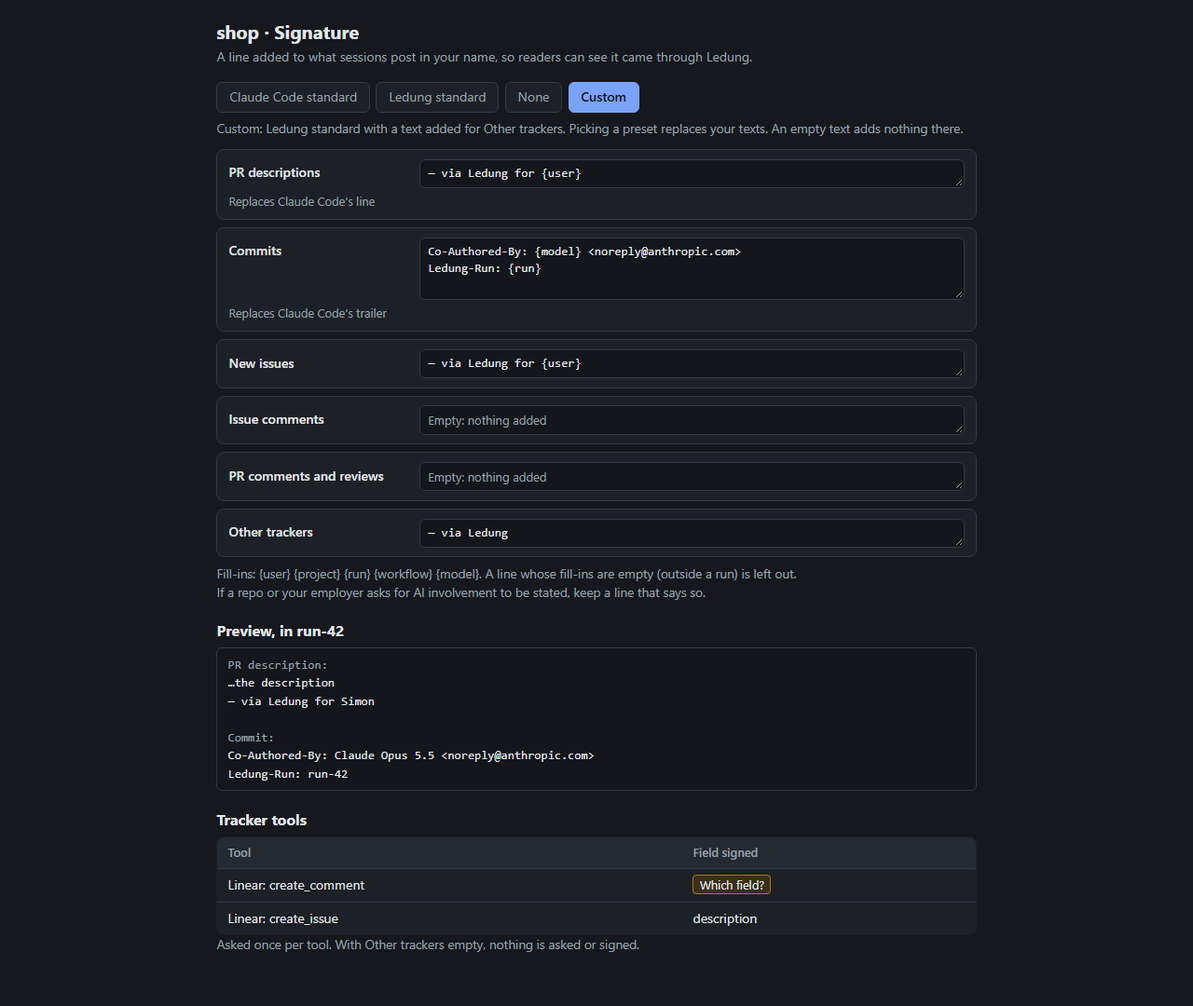
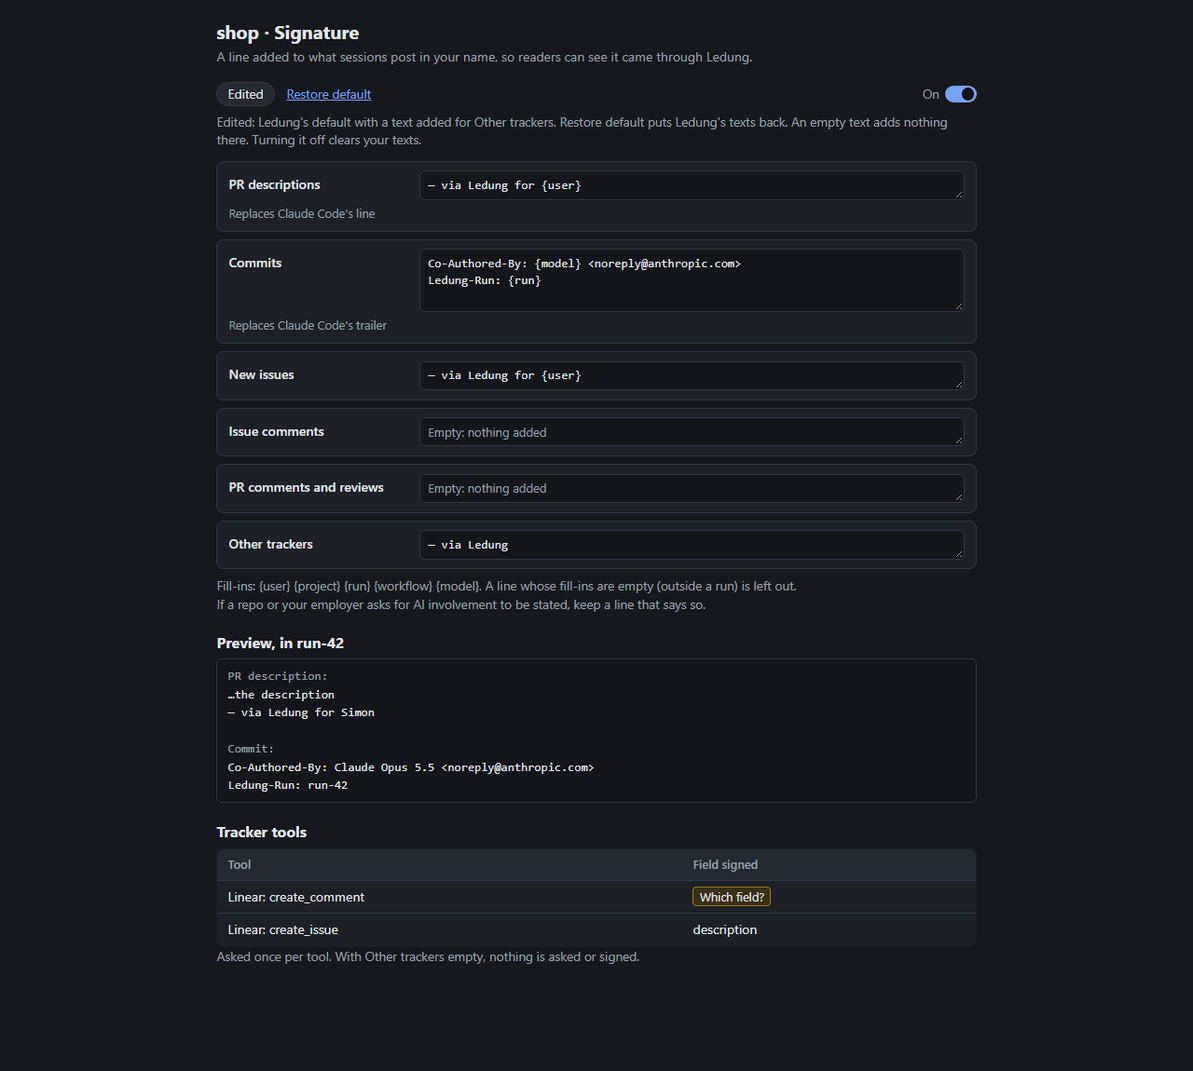
Design #513: one preset (Ledung's default), editable, Restore default, a small Off that empties the boxes
Simon, 2026-11-27: "Let's just have the Ledung preset, and it's editable
to turn into custom. With some way to restore it to the default. With a
small off somehow that disables the signature and erases the text in the
box." Claude Code standard, None and Custom presets are gone; open
choices 6 (how an existing project shows) and 7 (switching Off back on)
added. Settings mock-up with the Off switch; screenshots at 1280 and
390 px, plus the Off view at 390 px.

Changelog: none

diff --git a/docs/steps/project-signature/settings-mock.html b/docs/steps/project-signature/settings-mock.html
@@ -27,6 +27,18 @@ th, td { text-align:left; padding:.45rem .7rem; border-bottom:1px solid var(--bo
 th { color:var(--muted); font-weight:600; font-size:.8rem; background:var(--panel-2); }
 tr:last-child td { border-bottom:0; }
 .wait { background:var(--warn-bg); border:1px solid var(--warn-border); border-radius:4px; padding:.05rem .4rem; font-size:.8rem; }
+.top { display:flex; align-items:center; gap:.8rem; flex-wrap:wrap; margin-bottom:.4rem; }
+.state { border:1px solid var(--border); background:var(--panel-2); border-radius:999px; padding:.15rem .7rem; font-size:.85rem; }
+.restore { color:var(--accent); font-size:.85rem; }
+.switch { margin-left:auto; display:flex; align-items:center; gap:.4rem; color:var(--muted); font-size:.85rem; }
+.track { width:2.1rem; height:1.15rem; border-radius:999px; background:var(--accent); position:relative; display:inline-block; }
+.track::after { content:""; position:absolute; top:.15rem; left:1.1rem; width:.85rem; height:.85rem; border-radius:50%; background:var(--accent-text); }
+body.off .track { background:var(--border); }
+body.off .track::after { left:.15rem; background:var(--muted); }
+.offnote { display:none; }
+body.off .offnote { display:block; }
+body.off .state, body.off .restore, body.off .onlyon { display:none; }
+body.off .place { opacity:.5; }
 @media (max-width: 640px) {
   .wrap { padding:.8rem; }
   .place { grid-template-columns:1fr; }
@@ -38,8 +50,9 @@ tr:last-child td { border-bottom:0; }
 <h1>shop · Signature</h1>
 <p class="sub">A line added to what sessions post in your name, so readers can see it came through Ledung.</p>
 
-<div class="presets"><span class="preset">Claude Code standard</span><span class="preset">Ledung standard</span><span class="preset">None</span><span class="preset on">Custom</span></div>
-<p class="hint">Custom: Ledung standard with a text added for Other trackers. Picking a preset replaces your texts. An empty text adds nothing there.</p>
+<div class="top"><span class="state">Edited</span><a class="restore" href="#">Restore default</a><span class="switch"><span class="onoff">On</span><span class="track"></span></span></div>
+<p class="hint onlyon">Edited: Ledung's default with a text added for Other trackers. Restore default puts Ledung's texts back. An empty text adds nothing there. Turning it off clears your texts.</p>
+<p class="hint offnote">Off: no signature anywhere, Claude Code's lines included. Turning it on fills in Ledung's default.</p>
 
 <div class="place"><label>PR descriptions</label><textarea rows="1">— via Ledung for {user}</textarea><span class="why">Replaces Claude Code's line</span></div>
 <div class="place"><label>Commits</label><textarea rows="3">Co-Authored-By: {model} &lt;noreply@anthropic.com&gt;
@@ -50,7 +63,7 @@ Ledung-Run: {run}</textarea><span class="why">Replaces Claude Code's trailer</sp
 <div class="place"><label>Other trackers</label><textarea rows="1">— via Ledung</textarea></div>
 <p class="hint">Fill-ins: {user} {project} {run} {workflow} {model}. A line whose fill-ins are empty (outside a run) is left out.<br>If a repo or your employer asks for AI involvement to be stated, keep a line that says so.</p>
 
-<h2>Preview, in run-42</h2>
+<div class="onlyon"><h2>Preview, in run-42</h2>
 <div class="preview">PR description:
 <b>…the description
 — via Ledung for Simon</b>
@@ -65,4 +78,13 @@ Ledung-Run: run-42</b></div>
 <tr><td>Linear: create_issue</td><td>description</td></tr>
 </tbody></table>
 <p class="hint">Asked once per tool. With Other trackers empty, nothing is asked or signed.</p>
-</div></body></html>
+</div>
+</div>
+<script>
+// ?off shows the section switched off: every box emptied, as Simon asked.
+if (location.search.includes("off")) {
+  document.body.classList.add("off");
+  document.querySelector(".onoff").textContent = "Off";
+  for (const t of document.querySelectorAll("textarea")) { t.value = ""; t.placeholder = ""; t.disabled = true; }
+}
+</script></body></html>

diff --git a/docs/steps/project-signature.md b/docs/steps/project-signature.md
@@ -1,8 +1,8 @@
 # A project signature — proposal
 
-Nov 26, 2026, revised Nov 27 (Ledung's line replaces Claude Code's; then Simon's changes: presets, a text per place, off is off, no PR summary) · Proposal for issue #513 (run-179). Not approved yet; nothing is built.
+Nov 26, 2026, revised Nov 27 (Ledung's line replaces Claude Code's; then Simon's changes: a text per place, off is off, no PR summary; then one preset, Ledung's, editable, with Restore default and a small Off) · Proposal for issue #513 (run-179). Not approved yet; nothing is built.
 
-**Done when:** the "Done looks like" points of #513 hold, minus the living PR summary: a signature per project, set by a preset or by hand, with a text per place; `gh` issue create, issue and PR comments and reviews get it from every body source on Windows and Mac, and PR descriptions and commits through Claude Code's own settings; every other `gh` call is unchanged; another server's write tool gets it after one question per tool and project; an Outbox lists what went out; and never a second signature, one on a read-only call, a private detail in one, or a broken `gh`.
+**Done when:** the "Done looks like" points of #513 hold, minus the living PR summary: a signature per project, Ledung's default or edited by hand, with a text per place and an Off; `gh` issue create, issue and PR comments and reviews get it from every body source on Windows and Mac, and PR descriptions and commits through Claude Code's own settings; every other `gh` call is unchanged; another server's write tool gets it after one question per tool and project; an Outbox lists what went out; and never a second signature, one on a read-only call, a private detail in one, or a broken `gh`.
 
 ## Why
 
@@ -15,10 +15,10 @@ The signature is a **courtesy line, not proof**. A session can always reach the 
 In conversation with the manager, relayed with his words; they go into `docs/decisions.md` when the design is approved.
 
 - **Ledung handles the signatures:** "I still want Ledung to handle the signatures though."
-- **Presets, and a text per place:** Claude Code standard · Ledung standard · None; editing any text makes it Custom. An empty text means nothing in that place.
+- **One preset, Ledung's, and a text per place:** "for the presets. Let's just have the Ledung preset, and it's editable to turn into custom. With some way to restore it to the default. With a small off somehow that disables the signature and erases the text in the box." (Later on Nov 27; this replaces the earlier Claude Code standard · Ledung standard · None · Custom.) An empty text means nothing in that place.
 - **Ledung's texts replace Claude Code's lines completely, and nothing is hardcoded:** "we're replacing it with a per project signature that the user can change." Both Claude Code lines come from the project's texts. "The co-authored by claude should work the same way, unless that steps on any of Anthropic's licence thingies. If the user wants to have it there, they can have it in the signature; otherwise they can change it." (Earlier, question #2434: "We should override Claude Code's signature.") What Anthropic's terms say is under "Anthropic's terms" below.
-- **Off is off:** "If switched off, it should be off." None means no line anywhere, Claude's included.
-- **Defaults:** "existing projects should remain as is, new projects use a Ledung standard." This replaces the earlier defaults by repo visibility.
+- **Off is off:** "If switched off, it should be off." Off means no line anywhere, Claude's included.
+- **Defaults:** "existing projects should remain as is, new projects use a Ledung standard." This replaces the earlier defaults by repo visibility. How an existing project looks with only one preset is open choice 6.
 - **No living PR summary:** "I don't think it's up to Ledung, but each project's workflow. If I want to comment every time we start a new phase of an issue, then I can have that in the workflow." A PR made in a run gets the PR-description text like any other PR.
 
 ## Anthropic's terms (checked 2026-11-27)
@@ -45,29 +45,34 @@ So removing or replacing the lines is a supported choice. The one thing left to 
 
 ### The signature, per project
 
-In the project's settings, a **Signature** section: a preset, and a text per place.
+In the project's settings, a **Signature** section: a text per place, filled from Ledung's default, a **Restore default** link, and a small **Off** switch.
 
 **The places:** PR descriptions · commits · new issues · issue comments · PR comments and reviews · other trackers. Each has its own text; an empty text means nothing is added there.
 
-**The presets:**
+**Ledung's default** (what it says is open choice 4):
 
-| Place | Claude Code standard | Ledung standard (open choice 4) | None |
-|---|---|---|---|
-| PR descriptions | `🤖 Generated with [Claude Code](https://claude.com/claude-code)` | `— via Ledung for {user}` | — |
-| Commits | `Co-Authored-By: {model} <noreply@anthropic.com>` | `Co-Authored-By: {model} <noreply@anthropic.com>` and `Ledung-Run: {run}` | — |
-| New issues | — | `— via Ledung for {user}` | — |
-| Issue comments | — | — | — |
-| PR comments and reviews | — | — | — |
-| Other trackers | — | — | — |
+| Place | Ledung's default |
+|---|---|
+| PR descriptions | `— via Ledung for {user}` |
+| Commits | `Co-Authored-By: {model} <noreply@anthropic.com>` and, on the next line, `Ledung-Run: {run}` |
+| New issues | `— via Ledung for {user}` |
+| Issue comments | — |
+| PR comments and reviews | — |
+| Other trackers | — |
 
-- **Claude Code standard** is Claude's own lines, exactly, and nothing on issues, comments or trackers. It is what every session gets today.
-- **Ledung standard** puts Ledung's line on PRs and new issues, keeps the co-author trailer on commits and adds the run. Comments, reviews and trackers stay quiet: they are mostly conversation and work tools.
-- **None** means nothing anywhere: no Ledung line, no Claude line, no marker.
-- **Custom:** editing any text, from any preset, switches the project to Custom with the texts as they stood, so "Claude Code standard plus a signed issue" is one edit. Picking a preset again replaces the texts, after a "Replace your texts?" confirmation.
+It puts Ledung's line on PRs and new issues, keeps the co-author trailer on commits and adds the run. Comments, reviews and trackers stay quiet: they are mostly conversation and work tools.
+
+**Three states, one preset:**
+
+- **Default:** the texts are exactly Ledung's default. The section says "Ledung's default".
+- **Edited:** any change to any text makes the section say "Edited" (Simon's "custom"). Nothing else changes; the texts are simply what is saved. **Restore default** puts Ledung's default back in every box, after a "Replace your texts with Ledung's default?" confirmation, and is only shown while the texts are edited.
+- **Off:** a small switch at the top of the section. Switching it off empties every box and greys them out, and saves that: **no line anywhere**, no Ledung line, no Claude line, no marker, no stand-in on `PATH`, no tracker question. The edited texts are not kept (Simon: "erases the text in the box"), so the switch says "Turning it off clears your texts." **Switching it on again** fills the boxes with Ledung's default (open choice 7).
+
+There is no Claude Code preset and no None preset: Off is the None, and Claude's own lines are just text a person can type into the boxes, or keep (open choice 6 for existing projects).
 
 **Fill-ins:** `{user}` (Ledung's user name), `{project}` (the project's name), `{run}` (`run-179`), `{workflow}` (the flow's name) and `{model}` (the session's model as Claude Code names it, `Claude Opus 5.5`). Outside a run, the run fill-ins are empty, and a line left empty by them is dropped (so `Ledung-Run:` never appears alone). Only these five exist: session titles, folder paths, account names and anything else private can't be put in a signature, because there is no fill-in for them. Every text is checked against the project's sensitive patterns on save, as board posts are. (`{steps}` went with the PR summary.)
 
-**Existing and new projects:** a project with no signature setting is Claude Code standard, so every existing project behaves exactly as today. A project made in Ledung after this ships (New project, or the Ledung Helper) is saved with Ledung standard. A project added to the config by hand has no setting, so it is Claude Code standard too.
+**Existing and new projects:** a project made in Ledung after this ships (New project, or the Ledung Helper) is saved with Ledung's default. A project with no signature setting (every project that exists today, and one added to the config by hand) keeps exactly what it gets today: Claude Code's own PR line and commit trailer, and nothing else. How the section shows that is open choice 6; the recommendation is that its boxes hold Claude Code's two lines as edited text, with Restore default one click away.
 
 **Where the settings live: the project's settings, not the workflow.** Whether and how a project signs is about the repo and who reads it, and it applies to work outside a run too. Saved like the other project settings, in the project's part of the config, so a work project's text can stay in `ledung.config.local.json`. A change reaches PR descriptions and commits for sessions started or resumed afterwards (Claude Code takes those at the start; part 1 checks whether a running session can be updated), and everything else on the next call.
 
@@ -77,11 +82,12 @@ Claude Code adds its lines from two settings: `attribution.pr` and `attribution.
 
 | The project's text for the place | What Ledung sets for the session |
 |---|---|
-| Claude Code standard, unedited | nothing: Claude Code's own defaults, exactly as today |
-| A text (Ledung standard or Custom) | `attribution.pr` / `attribution.commit` = that text, filled in |
-| Empty (None, or emptied by hand) | an empty string: no line at all (with None, `attribution: false`) |
+| No signature setting (an existing project, untouched) | nothing: Claude Code's own defaults, exactly as today |
+| A text (Ledung's default or edited) | `attribution.pr` / `attribution.commit` = that text, filled in |
+| Empty (emptied by hand) | an empty string: no line in that place |
+| Off | `attribution: false`: no line at all |
 
-Leaving an unedited Claude Code standard alone keeps "as is" literal: Claude's own trailer names the model making each commit, including a subagent's, and a person's own `attribution` settings still apply. Once a text is set, `{model}` is the session's model at the start, refilled if Ledung switches the model; a commit made by a subagent on another model then names the session's model. That is the one difference from Claude's own trailer, and it only arises in Custom or Ledung standard.
+Leaving an untouched existing project alone keeps "as is" literal: Claude's own trailer names the model making each commit, including a subagent's, and a person's own `attribution` settings still apply. Once a text is set, `{model}` is the session's model at the start, refilled if Ledung switches the model; a commit made by a subagent on another model then names the session's model. That is the one difference from Claude's own trailer, and it only arises once a project's texts are set.
 
 Because Claude Code adds the PR line itself, it is there in every shell and in container sessions too. A PR description gets its line only this way: the stand-in doesn't sign `gh pr create`, so there is never a second line on a PR. Commits get no marker; a trailer is plain to read. No git hooks are installed in anyone's repository.
 
@@ -126,17 +132,21 @@ Only when the project's other-trackers text isn't empty. Ledung's existing `PreT
 
 A list of what sessions posted outside, as the stand-in and the hook saw it, newest first: when, the kind (issue, comment, PR, review, a tracker's comment), a link to the post, the project, the run (a link to it), and the session (a link to it; session titles are shown only here, inside Ledung, never in a signature). It can be filtered by project and run, or "Not in a run". It is built from the journals and the hook's record, kept in the database (a new `MIGRATIONS` entry) for the evidence period, then trimmed. At 1280 px it is a table. At 390 px each entry is a card of two lines: the kind and the link, cut off with "…", then project · run · time · session. Where it lives is open choice 5. The board's held posts are also called an outbox in the code (PR #131), but the page never shows that word, so the name is free.
 
-It lists only what goes through the stand-in or the hook, so a project on Claude Code standard or None, which has neither, shows nothing there. Commits are not listed: they go out with a push, and the branch already shows them.
+It lists only what goes through the stand-in or the hook, so a project that is Off, or an existing project still on Claude Code's own lines, has neither and shows nothing there. Commits are not listed: they go out with a push, and the branch already shows them.
 
 ## What is shown
 
 Mock-ups, static, dark mode, made-up projects (`project-signature/settings-mock.html`, `project-signature/outbox-mock.html`):
 
-**Project settings → Signature:** the presets (Custom is reached by editing, not picked), a text per place with a note on what it replaces, the fill-ins, a preview filled in for a sample run, one line on disclosure, and the list of tracker tools with their chosen field (changeable, or "None").
+**Project settings → Signature:** the small Off switch, "Ledung's default" or "Edited" with Restore default, a text per place with a note on what it replaces, the fill-ins, a preview filled in for a sample run, one line on disclosure, and the list of tracker tools with their chosen field (changeable, or "None").
 
 ![Signature settings at 1280 px](project-signature/settings-1280.png)
 
 ![Signature settings at 390 px](project-signature/settings-390.png)
+
+The same section switched Off (`settings-mock.html?off`): every box empty and greyed, "No signature anywhere, Claude Code's lines included."
+
+![Signature switched off at 390 px](project-signature/settings-off-390.png)
 
 **A waiting badge** on the project when a tracker tool's field is still unchosen.
 
@@ -157,16 +167,16 @@ Mock-ups, static, dark mode, made-up projects (`project-signature/settings-mock.
 
 ## Parts
 
-Each part is its own PR, reviewed and approved on its own. Part 1 comes first: it adds the settings, the presets and the journal, and on its own already gives PRs and commits the project's lines. Parts 2 and 3 depend only on part 1 and can go in either order. Part 4 needs part 2 or 3 for something to list.
+Each part is its own PR, reviewed and approved on its own. Part 1 comes first: it adds the settings, Ledung's default and the journal, and on its own already gives PRs and commits the project's lines. Parts 2 and 3 depend only on part 1 and can go in either order. Part 4 needs part 2 or 3 for something to list.
 
 | # | Part | Done when | Session time | Plan use |
 |---|---|---|---|---|
-| 1 | **Settings, presets and Claude Code's lines:** the Signature section (presets, a text per place, Custom on edit, fill-ins with `{model}`, preview, sensitive check), Claude Code standard for projects without a setting and Ledung standard for new ones, `attribution` per session, the journal file. | First the two checks under "PR descriptions and commits". Then, in a throwaway Ledung with Haiku: an existing project's session makes a PR and a commit exactly as today; a new project's (Ledung standard) PR ends with `— via Ledung for …` and no Claude line, and its commit carries `Co-Authored-By: Claude Haiku …` and, in a run, `Ledung-Run`; with None, neither has any line; a Custom text shows up as typed. The person's own Claude Code settings file is unchanged. Settings work at 390 px. | 60–90 min | medium: one build session plus review |
+| 1 | **Settings, Ledung's default and Claude Code's lines:** the Signature section (a text per place, Default / Edited, Restore default, the Off switch that empties the boxes, fill-ins with `{model}`, preview, sensitive check), existing projects left on Claude Code's own lines (open choice 6) and Ledung's default for new ones, `attribution` per session, the journal file. | First the two checks under "PR descriptions and commits". Then, in a throwaway Ledung with Haiku: an existing project's session makes a PR and a commit exactly as today; a new project's (Ledung's default) PR ends with `— via Ledung for …` and no Claude line, and its commit carries `Co-Authored-By: Claude Haiku …` and, in a run, `Ledung-Run`; switched Off, neither has any line and the boxes are empty; an edited text shows up as typed; Restore default brings back the default texts. The person's own Claude Code settings file is unchanged. Settings work at 390 px. | 60–90 min | medium: one build session plus review |
 | 2 | **The stand-in `gh`** (local sessions): on `PATH` only when one of its places has a text, signing the four commands from all three body sources, the marker and its check, a silent fallback, journal lines (`pr create` included). | Tests cover each command and body source, pass-through (same output and exit code), `pr create` left unsigned, and the fallback. A throwaway Ledung on Windows signs a real issue and comment in a throwaway repo from Git Bash; a repeated post isn't signed twice. One run on a Mac. | ≈ 90 min | medium |
 | 3 | **Other trackers:** picking out write tools, the one-time field question, the hook step and how it fits the chain, the repeat check without a marker, the journal line. | The check-1 tracker server, under a throwaway Ledung, asks once and signs every later call. A read-only tool is never touched. A refused call stays refused. A repeated call isn't signed twice. With an empty trackers text, nothing is asked. | 60–90 min | medium |
 | 4 | **Outbox:** database entry, list, filters, the page at both widths. | It lists parts 2–3's posts with links, per project and run, and works at 1280 and 390 px (dark-mode screenshots beside this mock-up). | ≈ 60 min | medium (page and screenshots) |
 
-About 4½ to 5½ hours of session time in all, in four PRs (the earlier five parts were about 5 hours; the PR summary's hour is gone, the presets add some to part 1). Each part also waits for code review, CI and Simon's sign-off. No measured figures from Ledung exist for this kind of work yet, so plan use is only relative.
+About 4½ to 5½ hours of session time in all, in four PRs (the earlier five parts were about 5 hours; the PR summary's hour is gone, the settings section adds some to part 1). Each part also waits for code review, CI and Simon's sign-off. No measured figures from Ledung exist for this kind of work yet, so plan use is only relative.
 
 ## Open choices
 
@@ -179,10 +189,16 @@ About 4½ to 5½ hours of session time in all, in four PRs (the earlier five par
 3. **PowerShell.**
    - **(a) No `gh.ps1` for now (recommended):** PowerShell finds the real `gh.exe`, so issues and comments from PowerShell go unsigned but never break. Git Bash is Claude Code's shell on Windows.
    - (b) Write `gh.ps1` only when Ledung finds the execution policy allows scripts.
-4. **What Ledung standard says.**
+4. **What Ledung's default says.**
    - **(a) As in the table (recommended, the manager's suggestion):** PR descriptions and new issues `— via Ledung for {user}`; commits `Co-Authored-By: {model} <noreply@anthropic.com>` plus `Ledung-Run: {run}` in a run; comments, reviews and trackers empty. The co-author trailer stays because it says honestly, in a form GitHub reads, that Claude wrote the code; the PR line changes because "Generated with Claude Code" is the courtesy line Ledung's replaces.
    - (b) The same, but commits `Via: Ledung for {user}` plus `Ledung-Run: {run}`, without the co-author trailer: one Ledung line everywhere, but the commit no longer says Claude co-wrote it.
    - (c) The same as (a), plus issue comments and PR comments and reviews `— via Ledung`: more visible, more noise in conversations.
 5. **Where the Outbox lives.**
    - **(a) A sidebar entry next to runs, as in the mock-up (recommended):** one place across projects, with filters.
    - (b) A tab in each project's settings.
+6. **How an existing project shows in the Signature section.** It has no setting and must keep exactly today's lines.
+   - **(a) As edited text holding Claude Code's two lines (recommended):** the PR box shows `🤖 Generated with [Claude Code](https://claude.com/claude-code)`, the commit box `Co-Authored-By: {model} <noreply@anthropic.com>`, the rest empty, marked "Edited" with Restore default beside it. While those boxes are untouched, Ledung saves nothing and sets nothing, so Claude Code's own lines go out exactly as today (a subagent's model included). Once anything is changed, it is saved like any edited text. One preset, one way to read the section: the boxes show what goes out.
+   - (b) A separate note instead of boxes: "This project uses Claude Code's own lines, as before. Use Ledung's signature?" with a button. Plainer, but a fourth state beside Default, Edited and Off, which Simon's one-preset choice was meant to avoid.
+7. **Switching Off back on.** Off has already erased the texts.
+   - **(a) The boxes fill with Ledung's default (recommended):** on means signed, and "on with every box empty" would be a second Off. Editing from there is the same as always.
+   - (b) The boxes stay empty until the person types or presses Restore default: nothing appears that the person didn't put there, but until then on behaves like Off.
